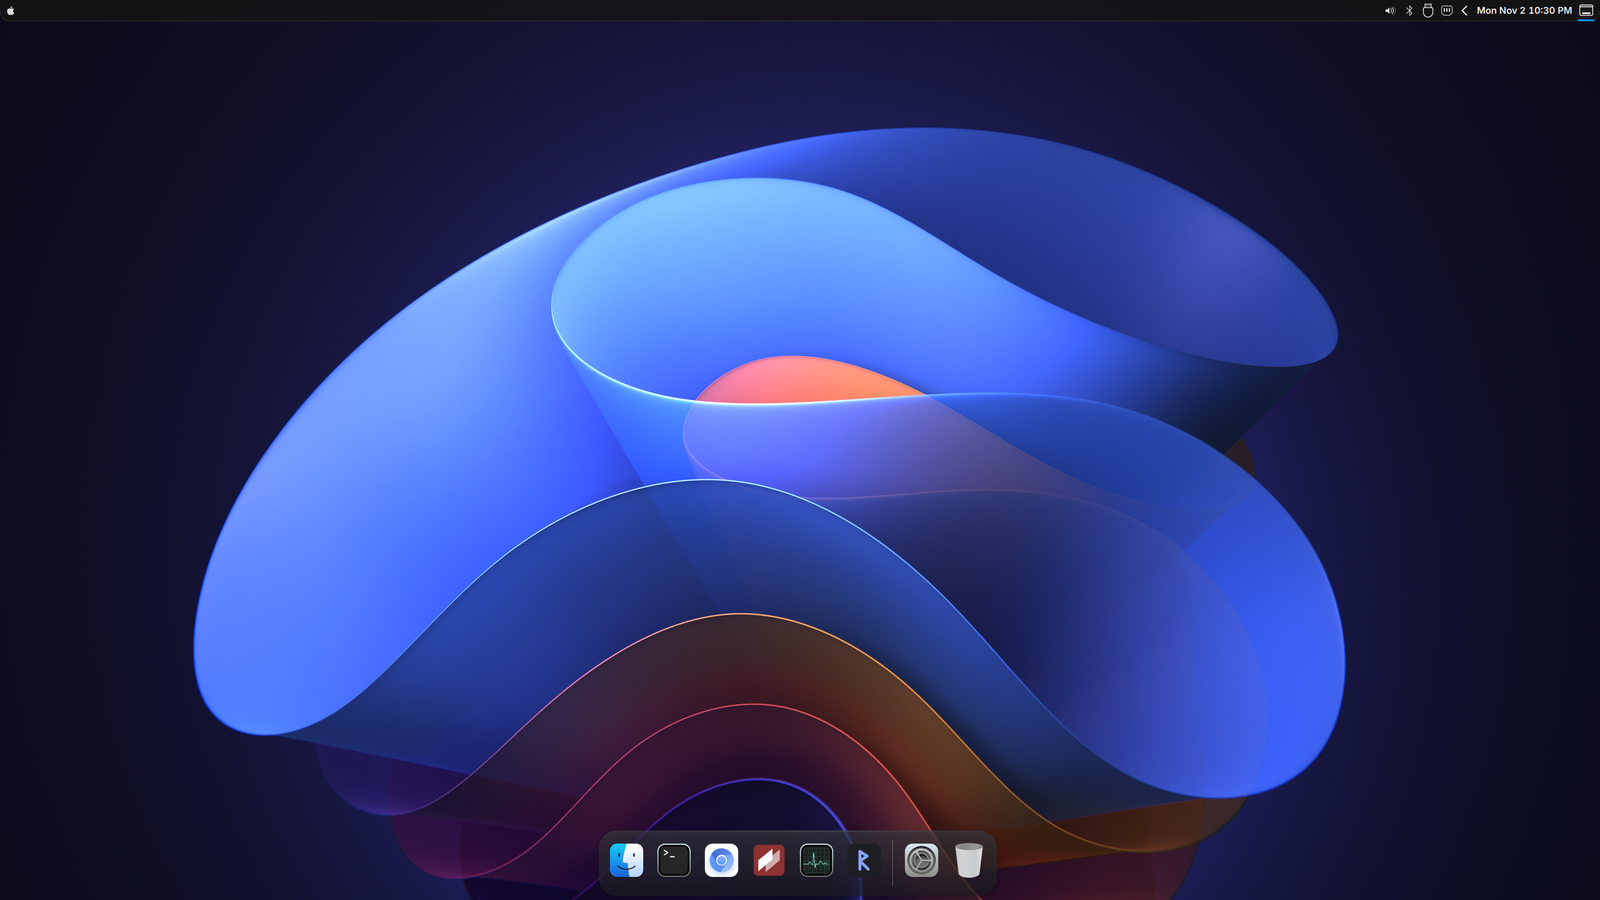
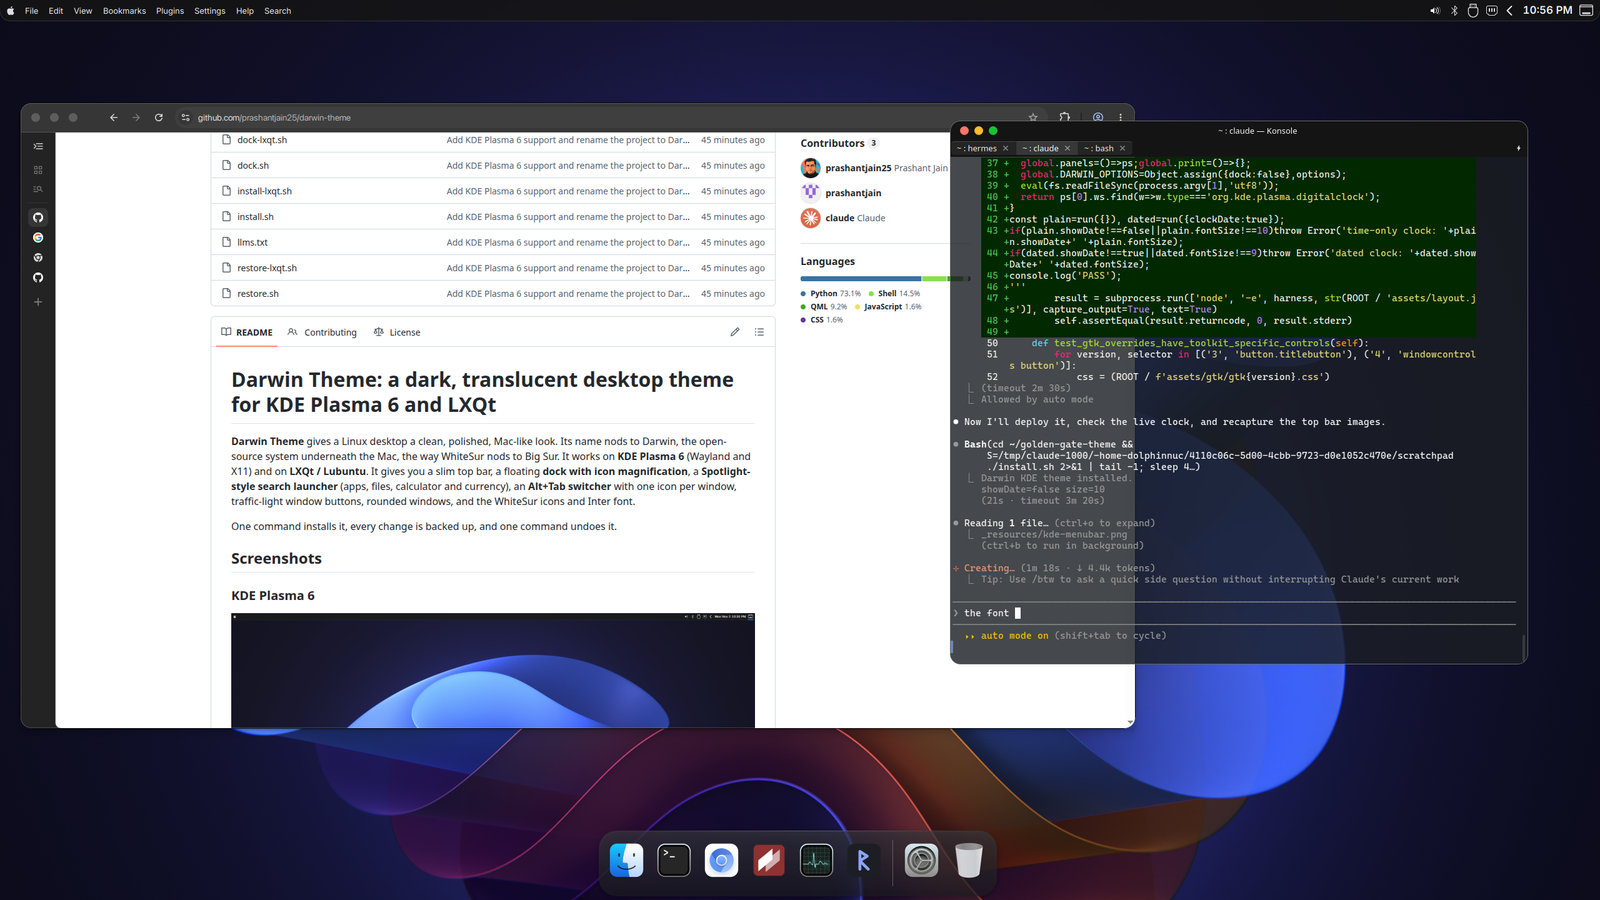
Show only the time in the KDE top bar; add menubar.show_date
A clock with the date next to the time stacks on two lines when it does not fit.
The KDE top bar now shows the time only by default, which never stacks and can use
the larger font. Setting menubar.show_date to true shows the weekday and date again,
with the smaller font that keeps them on one line.

Refresh the top bar and desktop screenshots, document the setting, and test both
clock modes.

diff --git a/assets/layout.js b/assets/layout.js
@@ -36,14 +36,15 @@
     ensure(top, 'org.kde.plasma.systemtray');
     var clock = ensure(top, 'org.kde.plasma.digitalclock');
     clock.currentConfigGroup = ['Appearance'];
-    clock.writeConfig('showDate', true);
+    // Time only by default. With the date shown the clock needs a smaller font to stay on one line.
+    clock.writeConfig('showDate', options.clockDate === true);
     clock.writeConfig('dateFormat', 'custom');
     clock.writeConfig('customDateFormat', 'ddd MMM d');
     clock.writeConfig('use24hFormat', 0);
     clock.writeConfig('fontFamily', options.font || 'Inter');
     clock.writeConfig('autoFontAndSize', false);
-    // 9, not 10: at 10 the clock stacks time over date as soon as the time needs two digits (10:xx to 12:xx).
-    clock.writeConfig('fontSize', 9);
+    // With the date, 9 not 10: at 10 the clock stacks time over date once the time needs two digits (10:xx to 12:xx).
+    clock.writeConfig('fontSize', options.clockDate === true ? 9 : 10);
     clock.writeConfig('fontWeight', 600);
     clock.writeConfig('fontStyleName', 'SemiBold');
     clock.writeConfig('dateDisplayFormat', 'BesideTime');

diff --git a/tests/test_integration_assets.py b/tests/test_integration_assets.py
@@ -27,6 +27,26 @@ console.log('PASS: native panel semantics and idempotence');
         result = subprocess.run(['node', '-e', harness, str(ROOT / 'assets/layout.js')], capture_output=True, text=True)
         self.assertEqual(result.returncode, 0, result.stderr)
 
+    def test_clock_shows_time_only_unless_the_date_is_requested(self):
+        harness = r'''
+const fs = require('fs');
+function widget(type) {return {type,writeConfig(k,v){this[k]=v;},reloadConfig(){},readConfig(k,d){return this[k] ?? d;},widgets(){return [];}};}
+function run(options) {
+  const ps=[]; let next=1;
+  global.Panel=function(){this.id=next++;this.screen=0;this.ws=[];this.widgets=()=>this.ws;this.addWidget=(t)=>{let w=widget(t);this.ws.push(w);return w;};ps.push(this);};
+  global.panels=()=>ps;global.print=()=>{};
+  global.DARWIN_OPTIONS=Object.assign({dock:false},options);
+  eval(fs.readFileSync(process.argv[1],'utf8'));
+  return ps[0].ws.find(w=>w.type==='org.kde.plasma.digitalclock');
+}
+const plain=run({}), dated=run({clockDate:true});
+if(plain.showDate!==false||plain.fontSize!==10)throw Error('time-only clock: '+plain.showDate+' '+plain.fontSize);
+if(dated.showDate!==true||dated.fontSize!==9)throw Error('dated clock: '+dated.showDate+' '+dated.fontSize);
+console.log('PASS');
+'''
+        result = subprocess.run(['node', '-e', harness, str(ROOT / 'assets/layout.js')], capture_output=True, text=True)
+        self.assertEqual(result.returncode, 0, result.stderr)
+
     def test_gtk_overrides_have_toolkit_specific_controls(self):
         for version, selector in [('3', 'button.titlebutton'), ('4', 'windowcontrols button')]:
             css = (ROOT / f'assets/gtk/gtk{version}.css')

diff --git a/lib/kde.py b/lib/kde.py
@@ -86,7 +86,7 @@ def layout_script(cfg, menubar=True, dock=True, dock_mode=None):
                'barHeight': cfg['menubar']['height'], 'font': cfg['fonts']['ui'],
                'hiding': DOCK_MODES[norm_mode(dock_mode or cfg['dock']['mode'])],
                'dockIcon': metrics[0], 'dockHeight': int(metrics[1]),
-               'startIcon': start_icon(cfg),
+               'startIcon': start_icon(cfg), 'clockDate': bool(cfg['menubar'].get('show_date', False)),
                'dockWidget': DOCK_PLASMOID if (locations()['data'] / 'plasma/plasmoids' / DOCK_PLASMOID / 'metadata.json').is_file() else ''}
     return 'var DARWIN_OPTIONS = ' + json.dumps(options) + ';\n' + (ROOT / 'assets/layout.js').read_text()
 

diff --git a/README.md b/README.md
@@ -64,7 +64,7 @@ Dock zoom on LXQt (the icon under the pointer grows):
 
 | | KDE Plasma 6 | LXQt / Lubuntu |
 |---|---|---|
-| Top bar | Apple-style launcher icon, app menu, one-line clock, short tray with a `<` arrow for the rest. Square top corners, curved bottom corners | Launcher, tray and clock |
+| Top bar | Apple-style launcher icon, app menu, clock (time only, date optional), short tray with a `<` arrow for the rest. Square top corners, curved bottom corners | Launcher, tray and clock |
 | Dock | Floating dock with smooth icon magnification, your pinned apps kept in order | Plank dock with magnification |
 | Search launcher | Qt launcher: apps, files, calculator, currency | rofi launcher: apps, files, calculator |
 | Alt+Tab | Dark or light glass switcher, one icon per window, name under the selected icon | Same style |
@@ -174,6 +174,7 @@ python3 lib/theme.py validate     # check your file
 | `fonts.ui`, `fonts.ui_size`, `fonts.mono` | Interface font, its size, and the code font |
 | `window.corner_radius` | How round the windows are |
 | `menubar.enabled`, `menubar.height` | Top bar on or off, and its height |
+| `menubar.show_date` | KDE: also show the weekday and date next to the time (off by default, so the bar shows the time only) |
 | `menubar.hidden_tray_items`, `menubar.shown_tray_items` | Tray icons to always hide, or (KDE) to keep visible |
 | `dock.enabled`, `dock.mode`, `dock.icon_size` | Dock on or off, hiding behaviour, icon size |
 | `switcher.style` | `icons` (new switcher) or `list` (plain text list, LXQt) |
